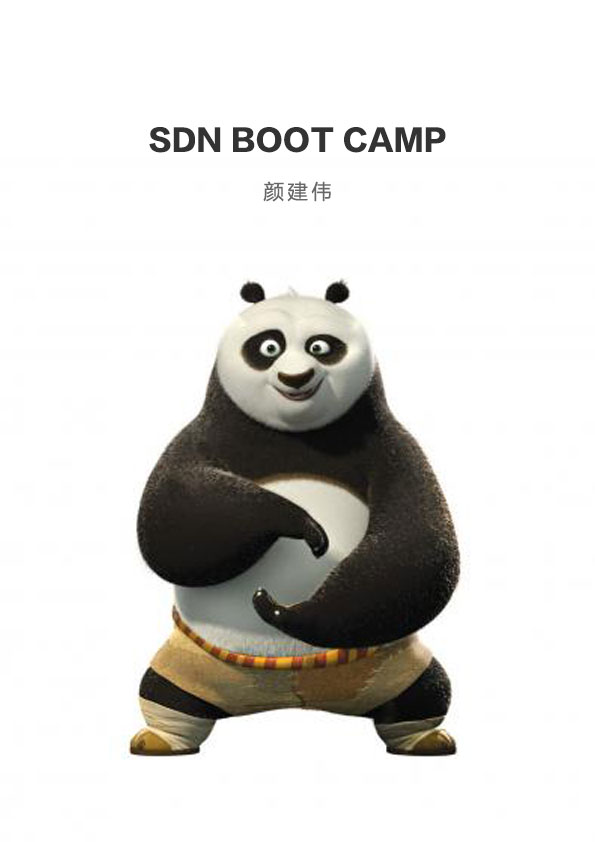
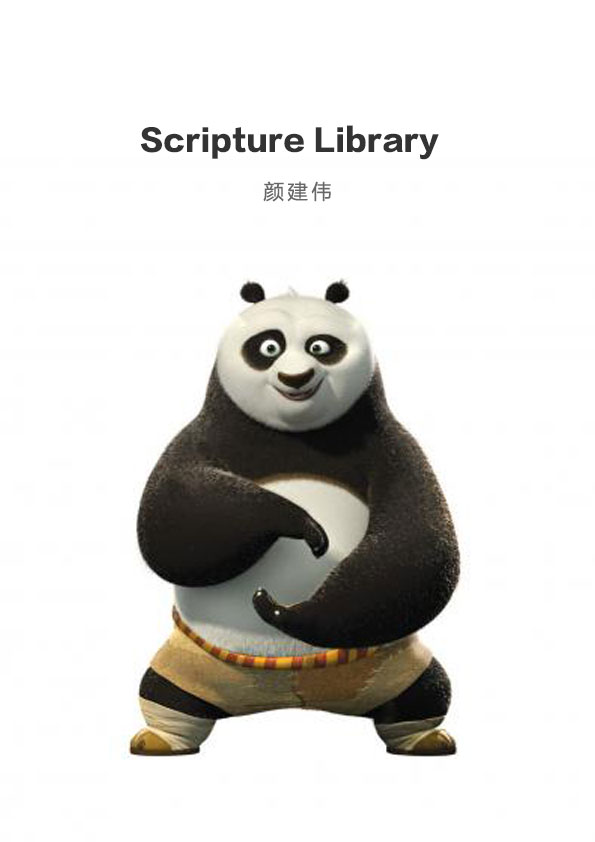
更换封面

Changed region(s): [[0.242, 0.1235, 0.7563, 0.1853]]

diff --git a/README.md b/README.md
@@ -3,11 +3,11 @@ SDN BOOT CAMP
 
 v0.1.0
 
-[SDN](www.sdnlab.com) 是网路领域比较火热的技术，为满足广大SDN技术爱好者的学习需要，现写此书与大家交流技术心得，分享经验，由于笔者在学习SDN的过程中，受益于开源的项目，书籍，网站，今以gitBook的形式开放给大家，共同进步。
+[Openstack](http://www.openstack.org/)[Docker](https://www.docker.com/)[SDN/NFV](www.sdnlab.com) 是最近比较火热的技术领域，现写此书与大家交流技术心得，分享经验，您也可以提出宝贵意见，希望与大家共同进步。
      
 本书最大的亮点和特色是：
-本书不同于学院派教科书般的说教，也不同于行业分析类的理论推演，而是注重实验，并尽力可视化实战过程和结果，让小学生都能看的明白，亦能让研究生茅塞顿开。！
-
+1.本书不同于学院派教科书般的说教，也不同于行业分析类的理论推演，而是注重实战，并尽力可视化实战过程和结果，让小学生都能看的明白，亦能让研究生茅塞顿开
+2.本书将也将重点关注编程的基本功积累，通过对openstack的代码解读，学习其设计和编程技巧
 
 在线阅读：[GitBook](https://www.gitbook.io/book/yanjianwei/sdn-boot-camp) 
 
